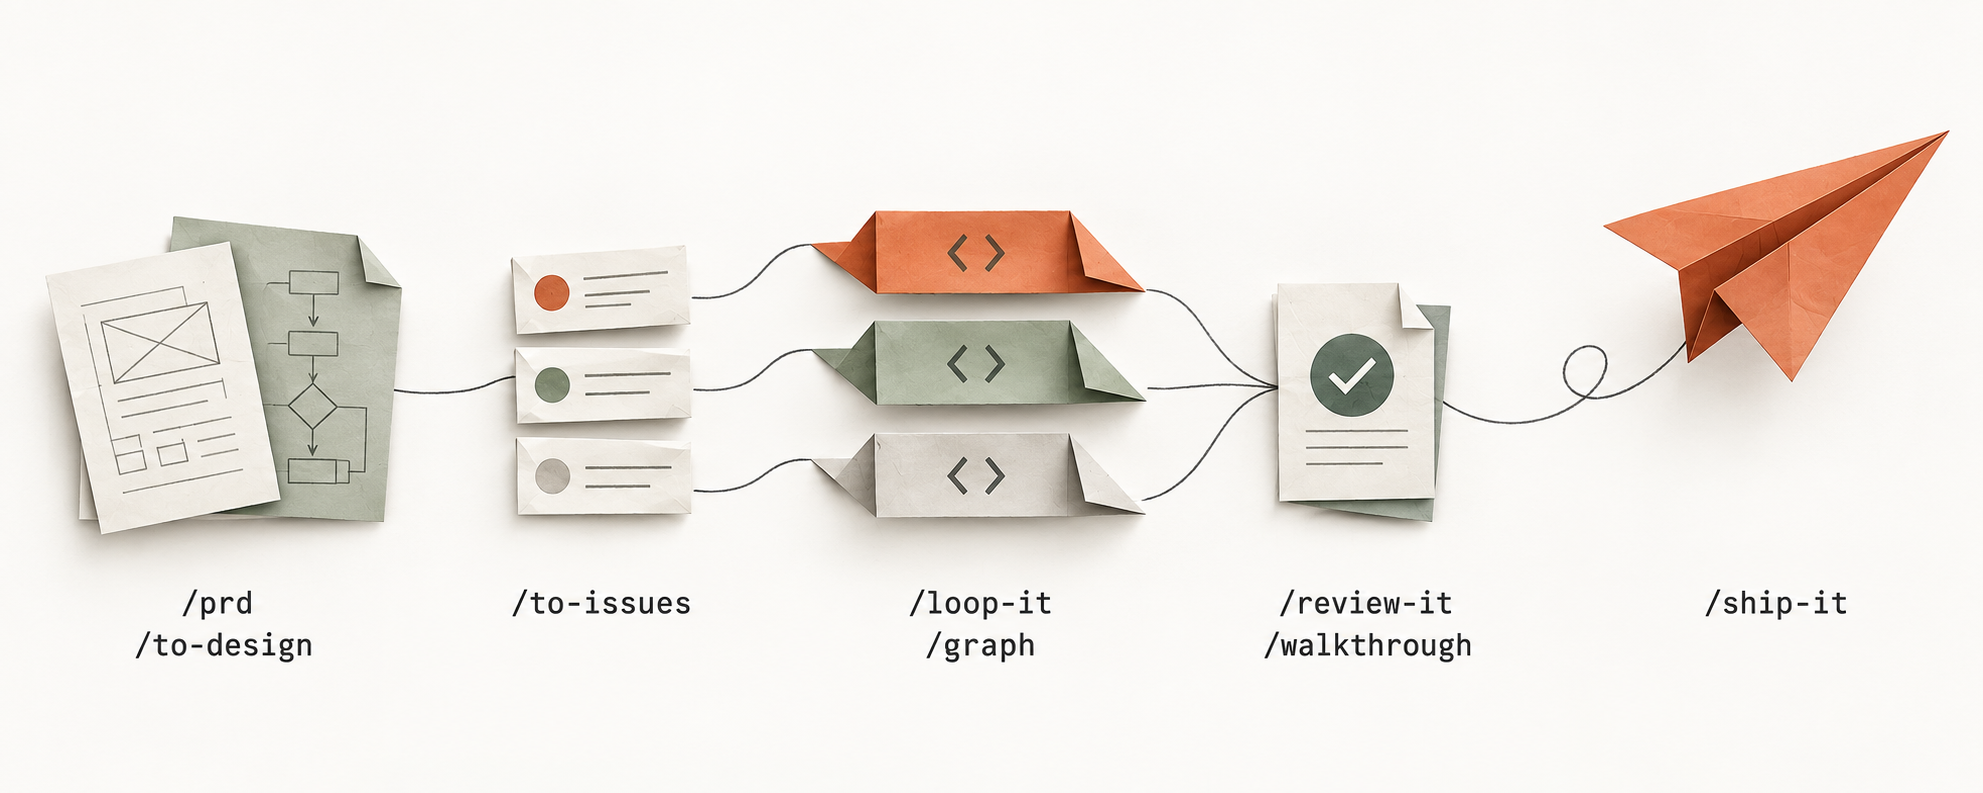
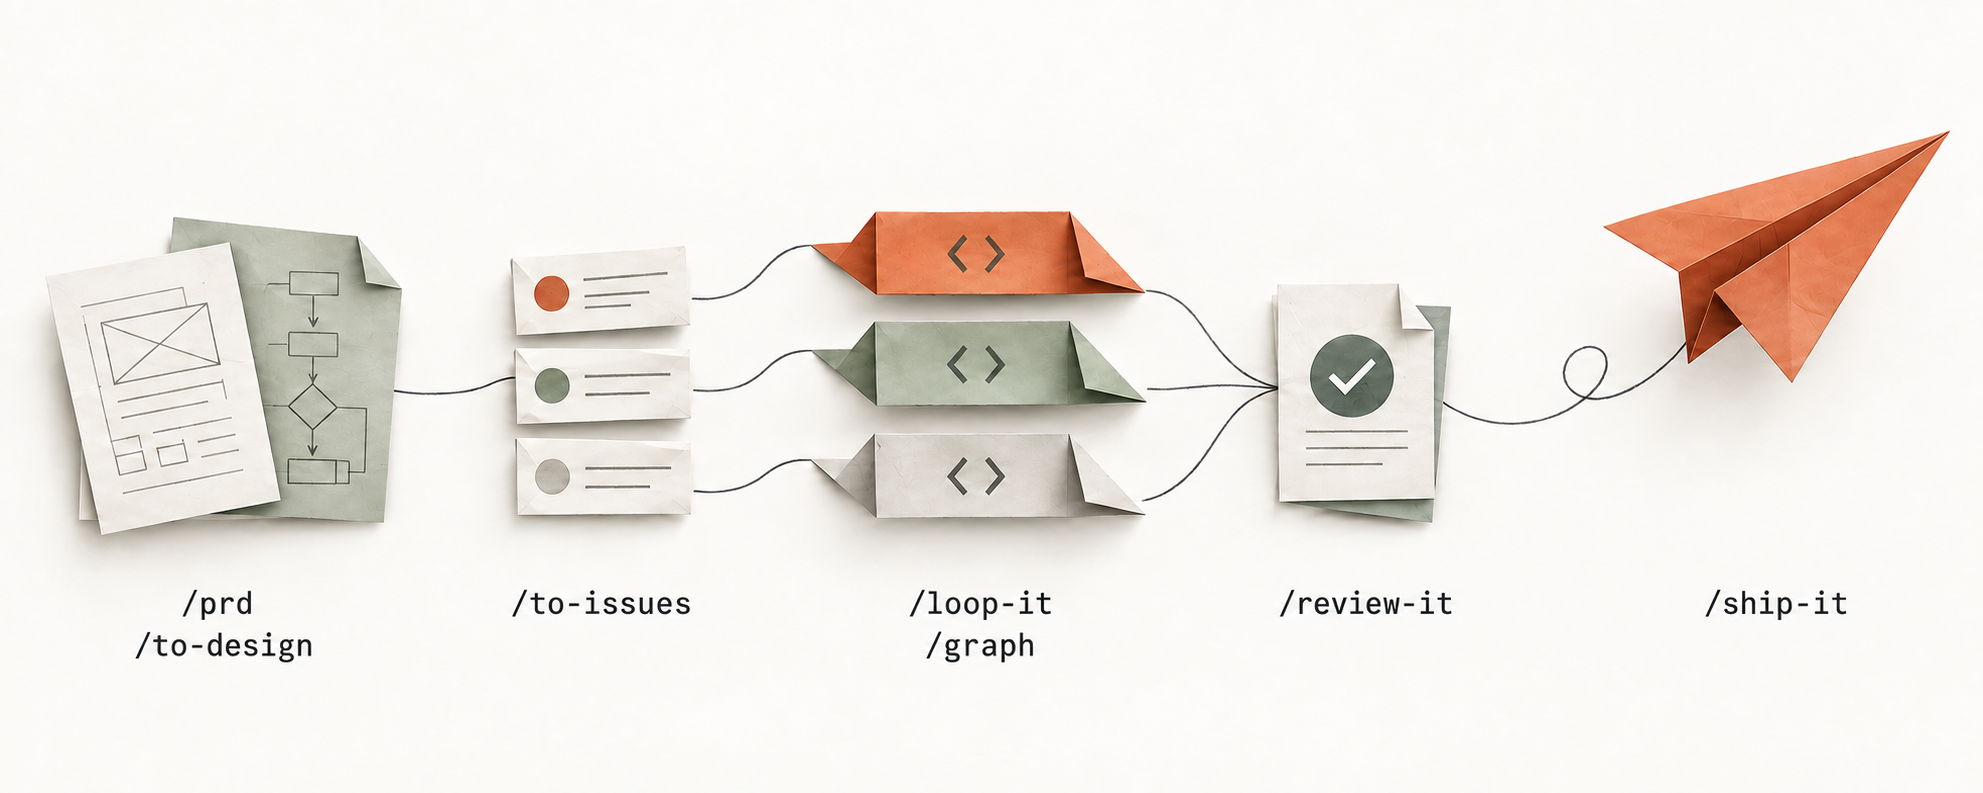
docs: center the README on the 7 flow skills
The user's change. The README now leads with skills/flow and moves bonus/vendor
into a collapsed section, which is the right shape after walkthrough was folded
in: 24 skills total (7 + 7 + 10), 23 of them auto-selectable, teach the only one
holding disable-model-invocation upstream. Checked each of those numbers against
the tree before pushing.

diff --git a/README_EN.md b/README_EN.md
@@ -26,9 +26,9 @@
 
 ## What is let-it-go?
 
-let-it-go is a collection of 25 development-workflow skills for coding agents. Describe your goal, and the agent clarifies requirements, breaks down Issues, implements, verifies, and ships as the task requires. Each step has a defined responsibility and completion criteria.
+The core of let-it-go is the 7 development-workflow skills in [`skills/flow`](skills/flow). Describe your goal, and the agent clarifies requirements, breaks down Issues, implements, verifies, and ships as the task requires. Each step has a defined responsibility and completion criteria.
 
-The banner's five stages map to these skills:
+These 7 skills form the banner's five stages:
 
 | Stage | Skills | Outcome |
 | --- | --- | --- |
@@ -93,22 +93,31 @@ A few deliberate design choices:
 
 ## Skills
 
-The table uses short skill names; the prefix is `/` everywhere (DSH).
+The project centers on [`skills/flow`](skills/flow). Names below use the `/` prefix (DSH); each links to the full instructions.
 
-Beyond the main workflow, diagnosis, testing, refactoring, and documentation skills can be used independently as needed.
+| Skill | Responsibility and boundary |
+| --- | --- |
+| [`/prd`](skills/flow/prd/SKILL.md) | Clarify goals, scope, and open questions, then define verifiable acceptance criteria |
+| [`/to-design`](skills/flow/to-design/SKILL.md) | Write a design proposal when the approach and tradeoffs need to be explicit; Markdown is the main artifact, HTML an optional rendering |
+| [`/to-issues`](skills/flow/to-issues/SKILL.md) | Split work into vertical slices, with implementation contracts, acceptance criteria, required evidence, and blocking dependencies in each Issue |
+| [`/loop-it`](skills/flow/loop-it/SKILL.md) | The implementation entry point: finish single tasks inline or run dependent batches serially, with resumable checkpoints and review intensity matched to batch size |
+| [`/graph`](skills/flow/graph/SKILL.md) | Run genuinely parallel tasks in dependency waves, with a worktree per node, evidence checks at fan-in, and review and delivery once per wave |
+| [`/review-it`](skills/flow/review-it/SKILL.md) | Assess requirement compliance (Spec) and code standards (8 dimensions), reporting the two axes separately |
+| [`/ship-it`](skills/flow/ship-it/SKILL.md) | Write the walkthrough with verification evidence, then produce the PR body and handle commit, push, PR, merge, Issue closure, and the implementation summary; merge locally when there is no remote |
 
-| Stage | Skill | What it does |
-| --- | --- | --- |
-| Requirements & design | `/prd` · `/to-design` | Requirements doc → design proposal (**only when the change spans two or more services, alters the data model or a migration, or touches two or more external contracts**; Markdown is the main artifact, HTML an optional rendering) |
-| Breakdown & triage | `/to-issues` · `/triage` | Split your own PRD into vertical slices where **the Issue body is the contract** (goal / non-goals / acceptance criteria / required evidence / external boundary / definition of done / open questions) · turn **incoming** raw issues into agent-ready cards |
-| Implementation | `/loop-it` · `/test-first` · `/graph` | Finish a single task inline (no worktree, no subagent) · run dependent batches serially, choosing review intensity by batch size and saving evidence and follow-ups in a resumable checkpoint · red-green testing · DAG waves in parallel (one worktree per node, and nodes pass an evidence check at fan-in) |
-| Diagnosis | `/diagnose` · `/conflict` | A debugging loop that demands a red-capable command first · resolve merge/rebase conflicts hunk by hunk by intent |
-| Review & shipping | `/review-it` · `/ship-it` | Two-axis review (Spec + 8 standards dimensions) · **writes the walkthrough first**: what changed and what was verified, before merging (**evidence only; it does not produce the PR body**) · **the sole producer of both the walkthrough and the PR body**: commit/PR/merge/close Issue, plus the one implementation summary comment |
-| Code quality | `/refactor` · `/modern-go` | Two modes (`audit` reports without changing code / `fix` refactors from Fowler's catalog) · Go 1.0→1.27+ modernization |
-| Docs & diagrams | `/understand` · `/svg-diagram` (vendor) | Turn the current change into an interactive review page · SVG diagramming conventions plus 12 mechanical checks (bundled `svg-lint`) |
-| Third-party (`skills/vendor/`, verbatim copies) | `/find-skills` · `/frontend-design` · `/humanizer-zh` · `/pptx` · `/resume-optimizer` · `/skill-creator` · `/teach` · `/ui-ux-pro-max` · `/web-design-guidelines` | Discover and install skills from the ecosystem · front-end visual direction · strip template-speak from Chinese prose · read, write and edit `.pptx` / `.potx` · audit and rewrite a résumé around outcomes and the target JD · create and improve skills with evals · explain a concept as a lesson · a searchable UI/UX design knowledge base · review UI code against the Web Interface Guidelines |
+<details>
+<summary>Supplementary skills collected for personal use</summary>
 
-There are 25 skills (flow 8 / bonus 7 / vendor 10), of which 24 can be selected automatically from their descriptions. The vendored `teach` retains upstream's `disable-model-invocation` setting, stays out of the model catalog, and requires manual invocation. Those 24 descriptions total 5,572 characters, or 5,340 after DSH's whitespace normalization and 500-character cap per description.
+`skills/bonus` and `skills/vendor` contain tools the author collected for personal use. They remain in the repository for use as needed; the project's focus and main workflow are in `skills/flow`.
+
+| Directory | Contents |
+| --- | --- |
+| [`skills/bonus`](skills/bonus) | `/conflict`, `/diagnose`, `/modern-go`, `/refactor`, `/test-first`, `/triage`, `/understand`: conflict resolution, diagnosis, code quality, testing, triage, and change explanations |
+| [`skills/vendor`](skills/vendor) | `/find-skills`, `/frontend-design`, `/humanizer-zh`, `/pptx`, `/resume-optimizer`, `/skill-creator`, `/svg-diagram`, `/teach`, `/ui-ux-pro-max`, `/web-design-guidelines`: tools for skill management, design, writing, presentations, resumes, and diagrams |
+
+The repository contains 24 skills in total: 7 core and 17 supplementary. Of these, 23 support automatic selection by description; `/teach` retains upstream's `disable-model-invocation` setting and requires manual invocation. Skills in `vendor` are verbatim upstream copies; see each directory's `NOTICE.md` for source, version, and license.
+
+</details>
 
 `/goal` is a host **command**, not a skill. The model side of that surface is `create_goal` / `update_goal`, and its gate is **authority, not wording**: `create_goal` runs only in a **direct top-level human turn**, so a subagent or a mid-orchestration step cannot mint one — but the human does **not** have to say "goal". Handing over a long-running objective ("work through this whole batch") is exactly when it should be created, and that is the behaviour it was designed for. On a long batch the goal is the **session-scoped driver** (it re-prompts the session once a turn ends) while the checkpoint (`.loop-state.json` / `.graph_state.json`) is the **repo-scoped state** (where the batch got to) — the two are complementary and count different things (`maxGoalRounds` bounds continuation, `attempts` counts one issue's retries).
 
@@ -116,16 +125,16 @@ There are 25 skills (flow 8 / bonus 7 / vendor 10), of which 24 can be selected 
 
 ```
 skills/
-├── flow/          # the PRD → ship workflow, used as the task requires (8)
-├── bonus/         # engineering work and artifacts you reach for mid-flow (7)
-└── vendor/        # verbatim third-party copies, pinned to a commit by the manifest (10)
+├── flow/          # the PRD → ship workflow, used as the task requires (7)
+├── bonus/         # supplementary engineering tools collected for personal use (7)
+└── vendor/        # personal collection of upstream copies, pinned by the manifest (10)
 scripts/           # check_skills.py (layout / frontmatter / cross-refs / patch)
                    # sync_vendor.py (vendor sync and additions)
 Makefile           # the entry point for make check / test / vendor-*
 cordis.patch.yml   # the DSH bundle patch: each of the three buckets is its own customSkillDirs root
 ```
 
-The test is the role a skill plays: `flow` is the pipeline itself; `bonus` is what you reach for mid-flight because something broke, because quality is at stake, or because you need a non-code artifact (a testing method, diagnosis, conflicts, incoming triage, refactoring, design docs, a review page); `vendor` adds no new skills — it collects upstream third-party skills verbatim, each directory carrying a `NOTICE.md` (source / commit / license / sync date).
+`flow` is the project's core workflow; `bonus` and `vendor` are supplementary personal collections. `vendor` is synced verbatim from upstream, with a `NOTICE.md` in each directory recording its source, commit, license, and sync date.
 
 A DSH skill root is scanned **exactly one level deep** (`<root>/<name>/SKILL.md`), so `cordis.patch.yml` lists each of the three buckets as its own root rather than pointing at `skills/`. `npx skills add` scans recursively and flattens on install; either install route yields exactly the same set. `scripts/check_skills.py` guards the three silent failures: **a skill left at the top level** (no root covers it), **a bucket missing from the patch** (that whole bucket disappears without an error), and **a root `.claude-plugin/marketplace.json` out of step with the buckets** (the install picker falls back to one flat list of skills, also without an error).
 
